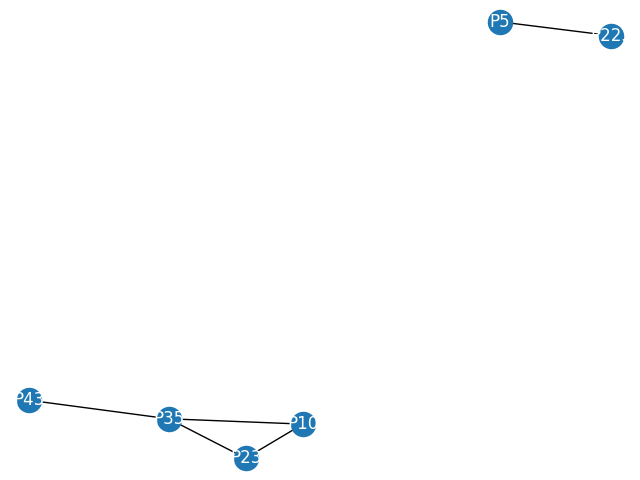
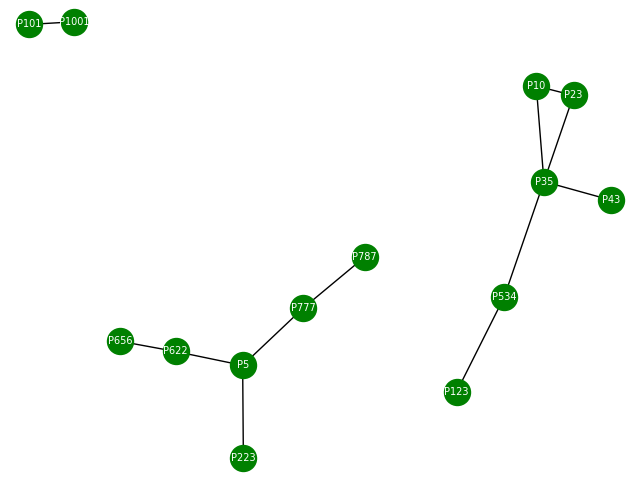
v1

diff --git a/gen_graph/templates/index.html b/gen_graph/templates/index.html
@@ -10,6 +10,22 @@
 	<link rel="stylesheet" type="text/css" href="{% static 'css/demo.css' %}" />
 	<link rel="stylesheet" type="text/css" href="{% static 'css/component.css' %}" />
 	<script src="{% static 'js/modernizr.custom.js' %}"></script>
+	<style>
+		.center {
+			display: block;
+			margin-left: auto;
+			margin-right: auto;
+			width: 50%;
+		}
+		h1 {
+			display: block;
+			margin-left: auto;
+			margin-right: auto;
+			width: 50%;
+			color:white;
+			text-align: center;
+		}
+	</style>
 </head>
 
 <body>
@@ -43,15 +59,23 @@
 	<li><a class="codrops-icon codrops-icon-drop" href="https://dashboard.kerala.gov.in/"><span>Visit GoK
 				Dashboard</span></a></li>
 	</ul>
-	<header>
+	<!--header>
 		<h1>GraphCov</h1>
-	</header>
+	</header-->
 	</div><!-- /container -->
 	<script src="{% static 'js/classie.js' %}"></script>
 	<script src="{% static 'js/gnmenu.js' %}"></script>
 	<script>
 		new gnMenu(document.getElementById('gn-menu'));
 	</script>
+	
+	<br>
+	<br>
+	<br>
+	<br>
+	<br>
+	<h1>Graph of COVID 19 patients and their contacts</h1>
+	<img class="center" alt="graph" src = "{% static 'path.png' %}">
 </body>
 
 </html>

diff --git a/gen_graph/views.py b/gen_graph/views.py
@@ -26,7 +26,7 @@ def index(request):
             data = json.load(json_file)
         json_file.close()
         H = json_graph.node_link_graph(data)
-        nx.draw(H, with_labels=True, font_color='white')
+        nx.draw(H, with_labels=True, font_color='white', node_color='green', font_size=7, node_size=350)
         plt.savefig('gen_graph/static/path.png')
     
     return render(request,'index.html')
@@ -38,6 +38,28 @@ def add(request):
         form = PersonForm(request.POST)
         if form.is_valid():
             form.save()
+            links = Link.objects.all()
+            persons = Person.objects.all()
+            
+            plt.clf() # Clears the plot
+            for person in persons:
+                G.add_node(person.p_id)
+            
+            for link in links:
+                G.add_edge(link.person1, link.person2)
+
+
+            # To convert to JSON
+            from networkx.readwrite import json_graph
+            data1 = json_graph.node_link_data(G)
+            import json
+            s1 = json.dumps(data1)
+            # To save JSON data to a file
+            with open('gen_graph/data/graph.json', 'w') as outfile:
+                json.dump(data1, outfile)
+
+
+
             return HttpResponseRedirect(reverse('index'))
         else:
             return render(request, 'add_person.html', {'form': form})
@@ -52,6 +74,27 @@ def link(request):
         form = LinkForm(request.POST)
         if form.is_valid():
             form.save()
+
+            links = Link.objects.all()
+            persons = Person.objects.all()
+            
+            plt.clf() # Clears the plot
+            for person in persons:
+                G.add_node(person.p_id)
+            
+            for link in links:
+                G.add_edge(link.person1, link.person2)
+
+
+            # To convert to JSON
+            from networkx.readwrite import json_graph
+            data1 = json_graph.node_link_data(G)
+            import json
+            s1 = json.dumps(data1)
+            # To save JSON data to a file
+            with open('gen_graph/data/graph.json', 'w') as outfile:
+                json.dump(data1, outfile)
+
             return HttpResponseRedirect(reverse('index'))
         else:
             return render(request,'add_link.html', {'form': form})

diff --git a/README.md b/README.md
@@ -11,6 +11,9 @@ A web application to represent COVID 19 patient data as a graph.
 * Add user authentication
 * Show "Person added successfully message" after new person is added.
 * Add update person details functionality.
+* When link is added, check if nodes exist.
+* Add different colors for nodes based on status.
+
 
 
 ## Dev environment setup (Ubuntu 20.04 LTS)
